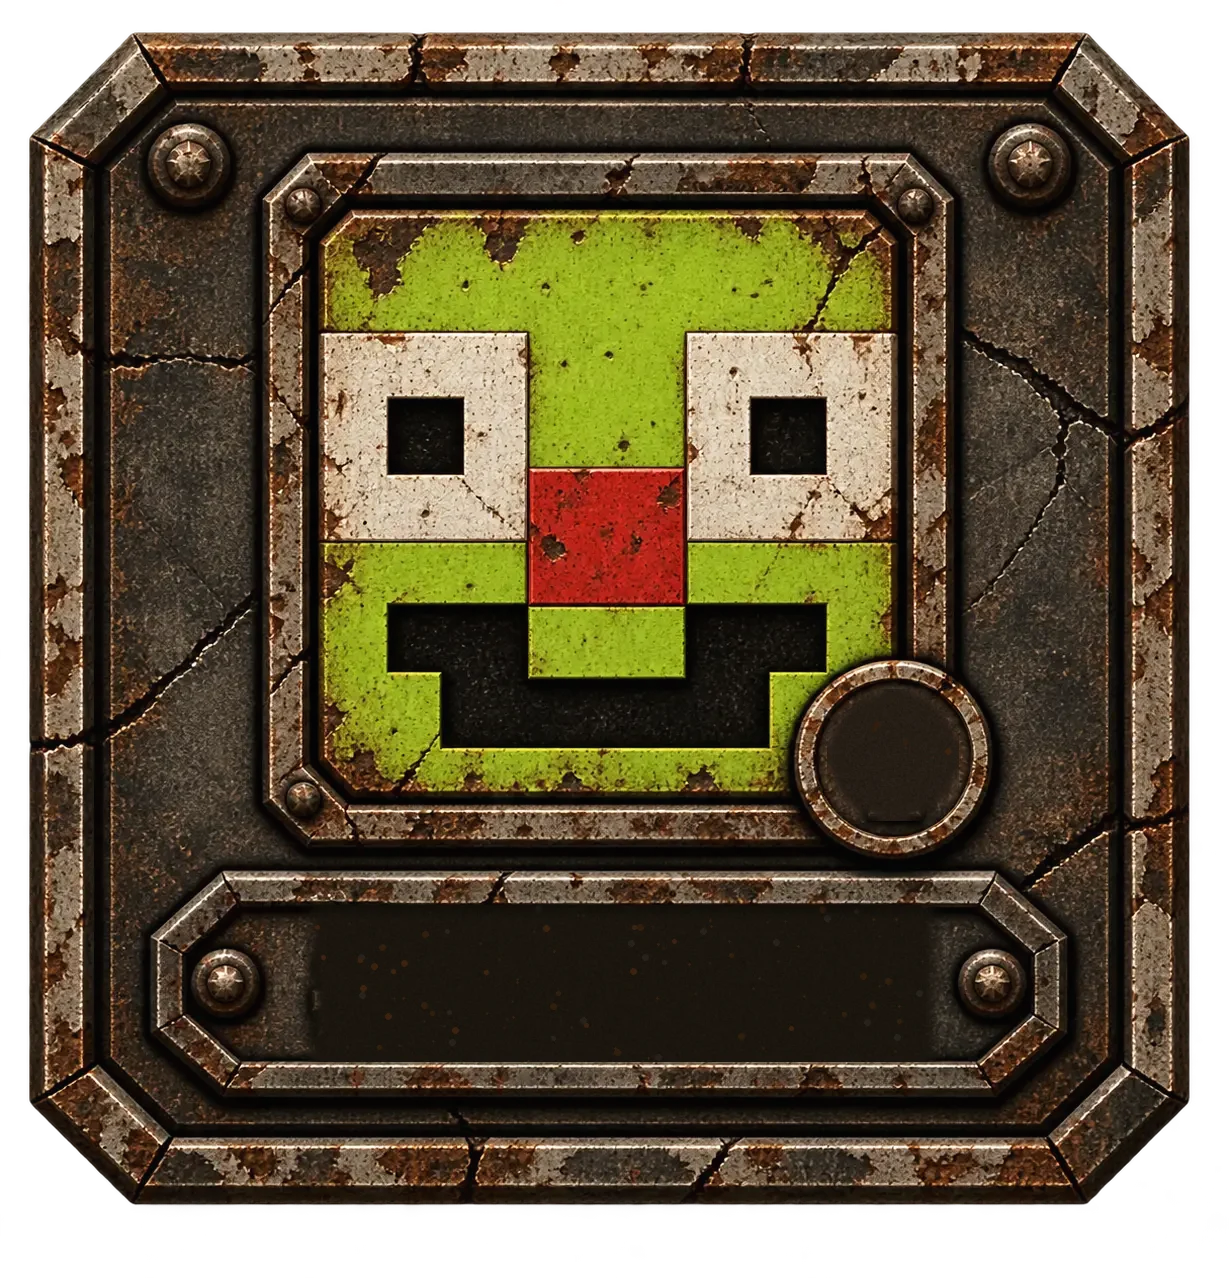
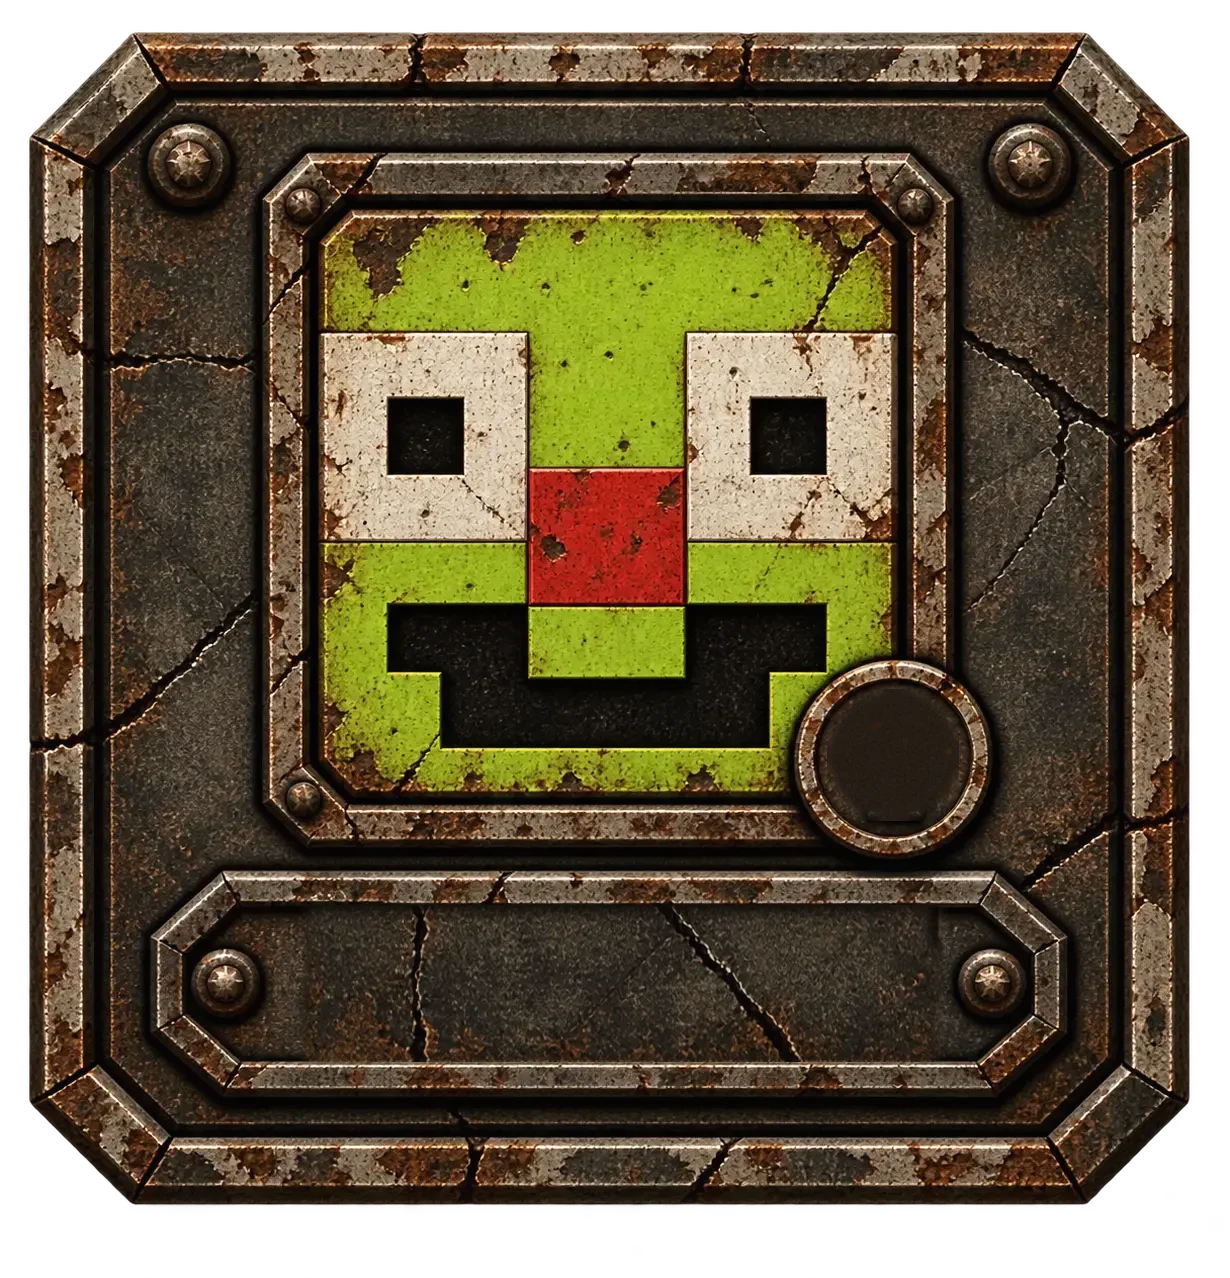
Worn rusty look on the Old theme profile face, cleaner ID plate, Golden menu buttons clear their end dots
Claude-Session: https://claude.ai/code/session_01Tf8SrUFBHQyxEEpK6uTTDE

Changed region(s): [[0.2472, 0.7019, 0.7724, 0.8545]]

diff --git a/src/style.css b/src/style.css
@@ -8656,6 +8656,22 @@ html.ui-theme-old #menu-avatar-icon {
 
 html.ui-theme-old #menu-avatar-photo {
   border-radius: 0;
+  /* Aged paint, then worn on top by the ::after layer below. */
+  filter: sepia(0.3) saturate(0.85) brightness(0.9) contrast(1.05);
+}
+
+/* Worn, rusty paint over whatever skin face is shown (2026-10-04, like
+   the mockup's face): rust flakes, scratches, cracks and grain cut from
+   the mockup (public/images/old-face-wear.webp, transparent except for
+   the wear), plus a dark rim where the face meets its frame. Sits under
+   the level coin (z-index 1). */
+html.ui-theme-old #menu-avatar-icon::after {
+  content: '';
+  position: absolute;
+  inset: 0;
+  background: url('/images/old-face-wear.webp') center / 100% 100% no-repeat;
+  box-shadow: inset 0 0 8px rgba(0, 0, 0, 0.75);
+  pointer-events: none;
 }
 
 /* The level number sits in the plate's round metal coin, not a star. */
@@ -9155,6 +9171,14 @@ html.ui-theme-old #menu-nav-buttons button {
   padding-left: 66px;
 }
 
+/* Golden gets the same width and left clearance as Old (2026-10-04
+   report: the icons and words sat on the gold plate's two end dots). */
+html:not(.ui-theme-old) #menu-nav-buttons button {
+  margin: 0 -12px;
+  padding: 15px 26px;
+  padding-left: 66px;
+}
+
 #menu-nav-buttons button svg {
   width: 24px;
   height: 24px;
@@ -9509,7 +9533,8 @@ html.ui-theme-old #menu-nav-buttons button {
      scaled-down version of Old's own extra clearance) fixes that; the
      plaque-art clearance the base padding exists for matters far less
      once everything's already shrunk this far. */
-  html.ui-theme-old #menu-nav-buttons button {
+  html.ui-theme-old #menu-nav-buttons button,
+  html:not(.ui-theme-old) #menu-nav-buttons button {
     padding: 12px 16px;
     /* Still needs some left clearance from the plaque art even at this
        shrunk tier - see the base rule's own comment on this same fix. */
@@ -9599,7 +9624,8 @@ html.ui-theme-old #menu-nav-buttons button {
   /* Same fix as the 960px tier above - Old theme's base padding override
      otherwise never shrinks, and this is the exact tier tuned for
      1366x768 (see this block's own comment above). */
-  html.ui-theme-old #menu-nav-buttons button {
+  html.ui-theme-old #menu-nav-buttons button,
+  html:not(.ui-theme-old) #menu-nav-buttons button {
     padding: 9px 20px;
     font-size: 14px;
     padding-left: 52px;
@@ -9816,7 +9842,8 @@ html.ui-theme-old #menu-nav-buttons button {
   }
 
   /* Same fix as the two taller tiers above. */
-  html.ui-theme-old #menu-nav-buttons button {
+  html.ui-theme-old #menu-nav-buttons button,
+  html:not(.ui-theme-old) #menu-nav-buttons button {
     padding: 8px 16px;
     font-size: 13px;
     padding-left: 42px;

diff --git a/CLAUDE.md b/CLAUDE.md
@@ -92,7 +92,8 @@ A third round (round 4) added, after auditing for and deliberately skipping the 
 ## Menu redesign notes (see `#menu` in `index.html`/`src/style.css`)
 
 - **Old theme panels are torn paper, not black boxes (2026-10-03, Gaymi's own image `public/images/old-panel-paper.webp`, already transparent around the torn edges).** `html.ui-theme-old .panel-box` stretches it as the background (no border/box-shadow, a `drop-shadow` filter that follows the torn edge, extra padding so content stays off the rim) and one rule turns all text on it dark ink (`--old-ink`, `!important` since most panel text has ID-level colors). Anything on its own dark background keeps its light text via that rule's `:not(:is(...))` list (`.crate-card`, `.inv-skin-card`, `#inv-skin-preview`, `.market-filter-btn`, `#shop-skin-buy-btn`, the close X) - a new dark card inside a panel needs adding there, or its text turns dark on dark. Golden theme is untouched.
-- **Old theme profile card (`#menu-player-badge`, 2026-10-03, from Gaymi's mockup)** is a rusty riveted metal plate (`public/images/old-profile-plate.webp`, cut from the mockup with its baked-in ID and level painted out) at a fixed 1230:1278 aspect, 264px wide - the same width as the nav plaques under it (they hang 12px past the column each side, so the card does too via `margin: 0 -12px`; asked for 2026-10-04 "same width as the right side panel... bigger so it wouldn't look weird"), its ID/level text sized in `cqw` so it scales with the card; still 0px homepage overflow at 1920x1080/1600x900/1440x900/1366x768; the face window, the level coin (`old-level-coin.webp`, its own picture so it sits on top of the face) and the ID name plate are absolutely positioned by percentages of that picture - change the picture and those percentages move with it. Golden keeps its gold frame and star.
+- **Old theme profile card (`#menu-player-badge`, 2026-10-03, from Gaymi's mockup)** is a rusty riveted metal plate (`public/images/old-profile-plate.webp`, cut from the mockup with its baked-in ID and level painted out) at a fixed 1230:1278 aspect, 264px wide - the same width as the nav plaques under it (they hang 12px past the column each side, so the card does too via `margin: 0 -12px`; asked for 2026-10-04 "same width as the right side panel... bigger so it wouldn't look weird"), its ID/level text sized in `cqw` so it scales with the card; still 0px homepage overflow at 1920x1080/1600x900/1440x900/1366x768; the face window, the level coin (`old-level-coin.webp`, its own picture so it sits on top of the face) and the ID name plate are absolutely positioned by percentages of that picture - change the picture and those percentages move with it. Golden keeps its gold frame and star. The face gets an aged look for any skin (2026-10-04): a sepia/darken `filter` on `#menu-avatar-photo` plus `#menu-avatar-icon::after` laying `old-face-wear.webp` on top (rust flakes, scratches, cracks and grain lifted from the mockup's face, transparent elsewhere); the ID plate's inside is plate metal now, not the dark patch first painted over the mockup's text ("remove the black around the id").
+- **Nav buttons are the same width/clearance in both themes (2026-10-04):** Golden used to sit at the column width with 16px left padding, so its icons and words landed on the gold plate's end dots; `html:not(.ui-theme-old) #menu-nav-buttons button` now copies Old's `margin: 0 -12px` and left padding at every height tier.
 
 - **Homepage first paint must match the loaded game (2026-09-30 report: "I see the Golden look first, then it switches").** The inline theme script at the top of `index.html` must use the same default as Game.js's settings loader (Old unless `uiTheme === 'golden'`) - it used to check for an explicit `'old'`, so new players and devices whose save hadn't arrived yet painted Golden first. `main.js` re-applies the theme class after the pre-boot cloud pull. Save-driven values (`#menu-currency-bar`, `#menu-player-badge`, `#homepage-clock`) stay `visibility: hidden` until Game.js adds `html.game-ready` at the end of its constructor, instead of showing 0s/`#PLAYER` placeholders. A new save-driven homepage element belongs on that list.
 - `#menu-layout`/`#menu-hero`/`#menu-cards-row` all got explicit `z-index: 1` during the 3-column redesign, to sit above `#menu-bg`'s `z-index: 0` background layer - but every full-screen modal panel (`#upgrades-panel`, `#coinshop-panel`, `#credits-panel`, `#achievements-panel`, `#bestiary-panel`, `#profile-panel`, and the shared rule's other members) had no explicit `z-index` at all (auto), which loses to *any* positioned sibling with a real z-index regardless of DOM order. Net effect: the main menu rendered on top of every one of these "open" panels the whole time, so the nav buttons underneath stayed fully clickable through them - clicking a second nav button (e.g. Credits) while one panel was already open (e.g. Shop) opened the second on top without ever closing the first, producing a garbled double-panel mess. Fixed by giving the whole shared panel rule `z-index: 15` (matching `#settings-panel`, the one panel that already had this right). Any *new* full-screen overlay added to the menu needs to be checked against this same scale (`#menu-bg`=0, `#menu-layout`/`#menu-hero`/`#menu-cards-row`=1, `#play-btn.play-btn-centered`=5, `#asset-loader`=10, panels=15, `#ending-panel`/`#extraction-screen`=20, `#cinematic-bars`=25, `#screen-fade`=30) rather than assuming DOM order alone will decide stacking - it won't, the instant any sibling has a non-auto z-index.
